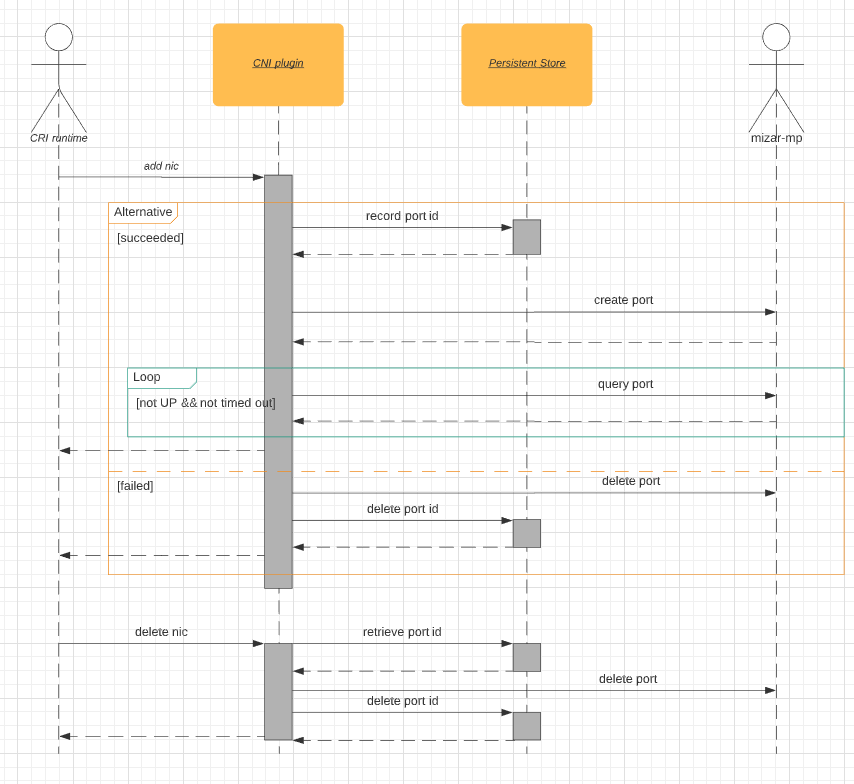
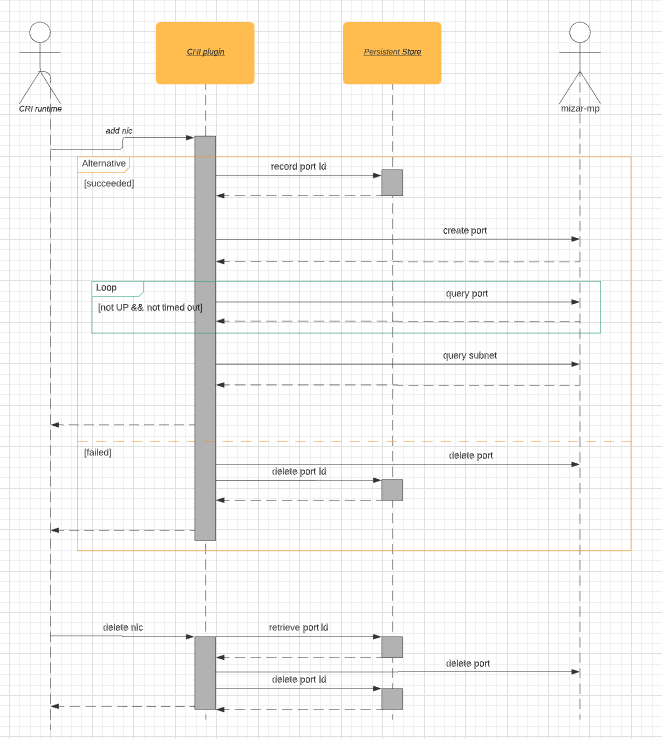
included query of subnet info call in workflow

diff --git a/cniplugin/README.md b/cniplugin/README.md
@@ -71,6 +71,22 @@ notes:
 nic info like MAC & IP address is returned in the response body;
 only when status is "UP" can the port considered as ready; it may timeout after some predefined period (1 minute in this implementation).  
 
+3. query subnet detail to get netmask & gateway IP
+* request
+<br/>method: GET
+<br/>URL: project/\<project-id\>/subnet/\<subnet-id\>
+* response
+<br/> sample body (omitting uninteresting info for brievity)
+```json
+{
+  "projectId": "xxxx-xxx-xxxx",
+  "id": "xxxx-xxx-xxxx",  //subnet-id
+  ...
+  "cidr": "192.168.100.0/24",
+  "gatewayIp": "192.168.100.1"
+}
+```
+
 ### Delete NIC
 method: DELETE
 URL: project/\<project-id\>/port/\<port-id\>
@@ -83,13 +99,15 @@ for now, plugin does not requires any authentication data to access Mizar-MP.
 * /etc/cni/net.d/mizarmp.conf
 // todo: specify host
 ```json
+{
   "cniVersion": "0.3.1",
   "name": "mizarmp-default",
   "type": "mizarmp",
   "mpurl": "http://127.0.0.1", //for onebox
   "subnet": "a87e0f87-a2d9-44ef-9194-9a62f178594e",
   "project": "3dda2801-d675-4688-a63f-dcda8d327f50",
-  "host": "localhost"
+  "hostId": "localhost"
+}
 ```
 
 * /opt/cni/bin/mizarmp
